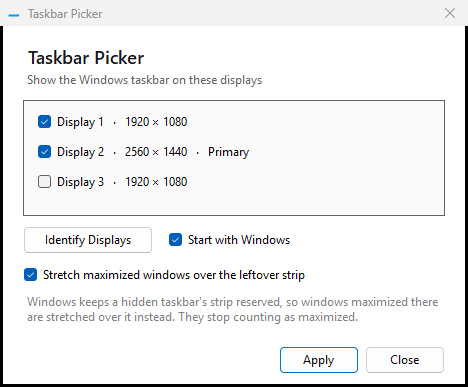
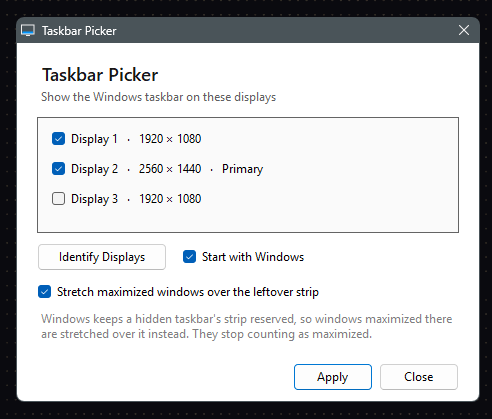
Rewrite the README for people, not for me
Shorter, friendlier, real screenshot. The measured findings about Explorer and
the reserved strip live in the source comments, which is where they belong.

diff --git a/README.md b/README.md
@@ -1,65 +1,49 @@
-# taskbarpick
+# 🖥 Taskbar Picker
 
-Windows 11 only lets you put the taskbar on the primary display or on all of them.
-Taskbar Picker lets you pick exactly which displays get one.
+Windows 11 gives you two choices: taskbar on **one** display, or on **all** of them.
 
-![dialog](docs/dialog.png)
+Got three monitors and want the taskbar on just two? Tough luck. That's what this fixes ✨
 
-## Use
+![Taskbar Picker](docs/dialog.png)
 
-Run `bin\taskbarpick.exe`. Tick the displays that should have a taskbar, hit Apply.
-It then sits in the tray; double-click the tray icon to change the selection.
+## 📦 Get it running
 
-- **Identify Displays** flashes the display number on each screen, matching the numbering in
-  Settings > System > Display.
-- **Start with Windows** adds an HKCU `Run` entry that launches it minimized (`--silent`).
-- **Exit (Restore All Taskbars)** puts every taskbar back.
+1. Download or clone this repo
+2. Run `bin\taskbarpick.exe`
 
-Windows itself has to create the taskbars on non-primary displays, so the first Apply that
-wants one turns on "show taskbar on all displays" and offers to restart Explorer once. If you
-end up wanting the taskbar on the primary display only, Apply turns that setting back off,
-which is the native way to do it and leaves nothing behind.
+That's it. No installer, no runtime to download, nothing to configure. It's a single 20KB app 🪶
 
-## The leftover strip
+## 🎛 Using it
 
-A hidden taskbar keeps reserving its 48px strip, and Explorer will not give it back. Measured
-on build 26200, none of these work on a secondary display:
+Tick the displays that should have a taskbar, click **Apply**. Done.
 
-- `SPI_SETWORKAREA` reports success and changes nothing (on the primary it does apply, but
-  Explorer then re-docks its bar inside the smaller area, and repeating that walks the bar and
-  your windows up the screen, so this app never writes work areas).
-- `ABM_SETPOS` against Explorer's own bar is ignored.
-- Resizing the bar window does not change the reservation.
-- The autohide flag and the taskbar size fields in that display's `MMStuckRects3` blob are
-  ignored; Windows 11 treats autohide as global (`ABM_SETSTATE` autohides every display at once).
+- 🔍 **Identify Displays** flashes a big number on each screen, so you know which is which
+- 🚀 **Start with Windows** brings it back automatically after a reboot
+- 📌 It lives in the system tray. Double-click the icon to change your picks
+- 👋 Tray menu → **Exit** puts every taskbar back exactly as it was
 
-So taskbarpick resizes the windows instead: **Stretch maximized windows over the leftover
-strip** watches for a window maximized on a display whose taskbar is hidden, un-maximizes it and
-places it over the whole monitor. The shell re-applies the maximized rect over any `SetWindowPos`,
-so dropping the maximized state is the only way past it, and the cost is that such a window no
-longer counts as maximized: its restore button and Win+Down behave like a normal window. Displays
-that still have a taskbar are never touched. Turning the option off, or re-enabling that display's
-taskbar, puts the windows back the way they were.
+The very first time you turn a taskbar on or off for a non-primary display, Windows needs
+Explorer restarted to do it. The app asks first, and it takes about a second 🔄
 
-## How it works
+## 🤔 That last checkbox
 
-- Enumerates displays with `EnumDisplayMonitors` and matches Explorer's `Shell_TrayWnd` /
-  `Shell_SecondaryTrayWnd` windows to them with `MonitorFromWindow`.
-- Hides the unwanted ones with `ShowWindow(SW_HIDE)`.
-- Reapplies on the `TaskbarCreated` broadcast, on display changes, and on a twice-a-second
-  watchdog, so an Explorer restart or a resolution change does not bring the bar back.
-- Stretches maximized windows via `SetWindowPlacement`, reusing the invisible resize border the
-  shell itself used for the maximized rect so the visible edges land exactly on the monitor.
+**Stretch maximized windows over the leftover strip**
 
-No hooks, no injection, no DLLs loaded into other processes, no keyboard automation, so there
-is nothing for anticheat to react to. Config lives in `%LOCALAPPDATA%\taskbarpick\hidden.txt`
-and stores only the displays that should stay bare, so a newly attached monitor keeps its
-taskbar. Displays are keyed by device interface path, so they survive renumbering.
+When a taskbar is hidden, Windows still holds onto its 48px slice of that screen, so maximized
+windows stop just short of the bottom and you see a wallpaper stripe 😒
 
-## Build
+Leave this ticked and windows maximized on those displays get stretched over the stripe, using
+the whole screen. The catch: such a window stops counting as "maximized", so its restore button
+won't snap it back to its old size. Untick it and everything goes back to normal 👍
 
-Needs no SDK; it uses the C# compiler that ships with Windows.
+## 🔧 Build it yourself
 
-    powershell -File build.ps1
+```
+powershell -File build.ps1
+```
 
-Output: `bin\taskbarpick.exe` (.NET Framework 4.x, x64).
+Uses the C# compiler already in Windows, so there's no SDK to install. Output lands in `bin\`.
+
+---
+
+No hooks, no injection, no background services, nothing loaded into other programs 🛡
